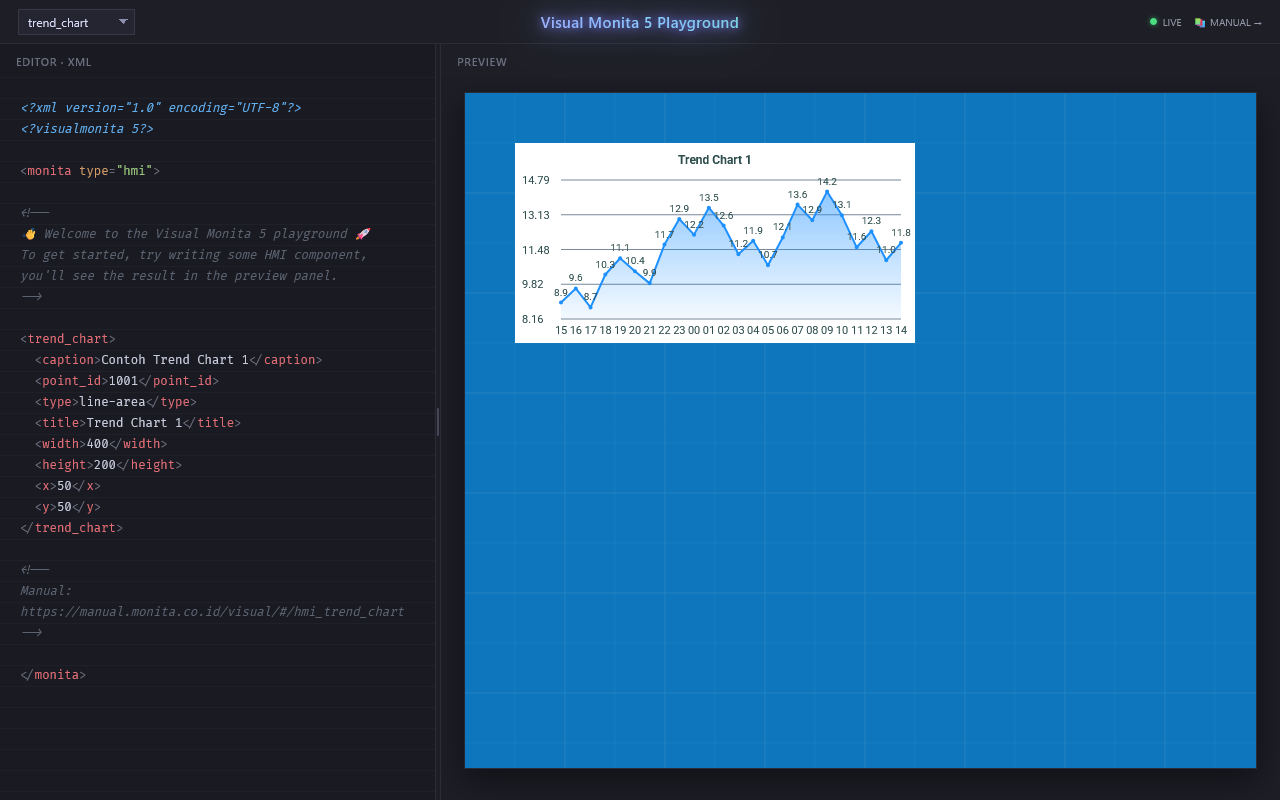
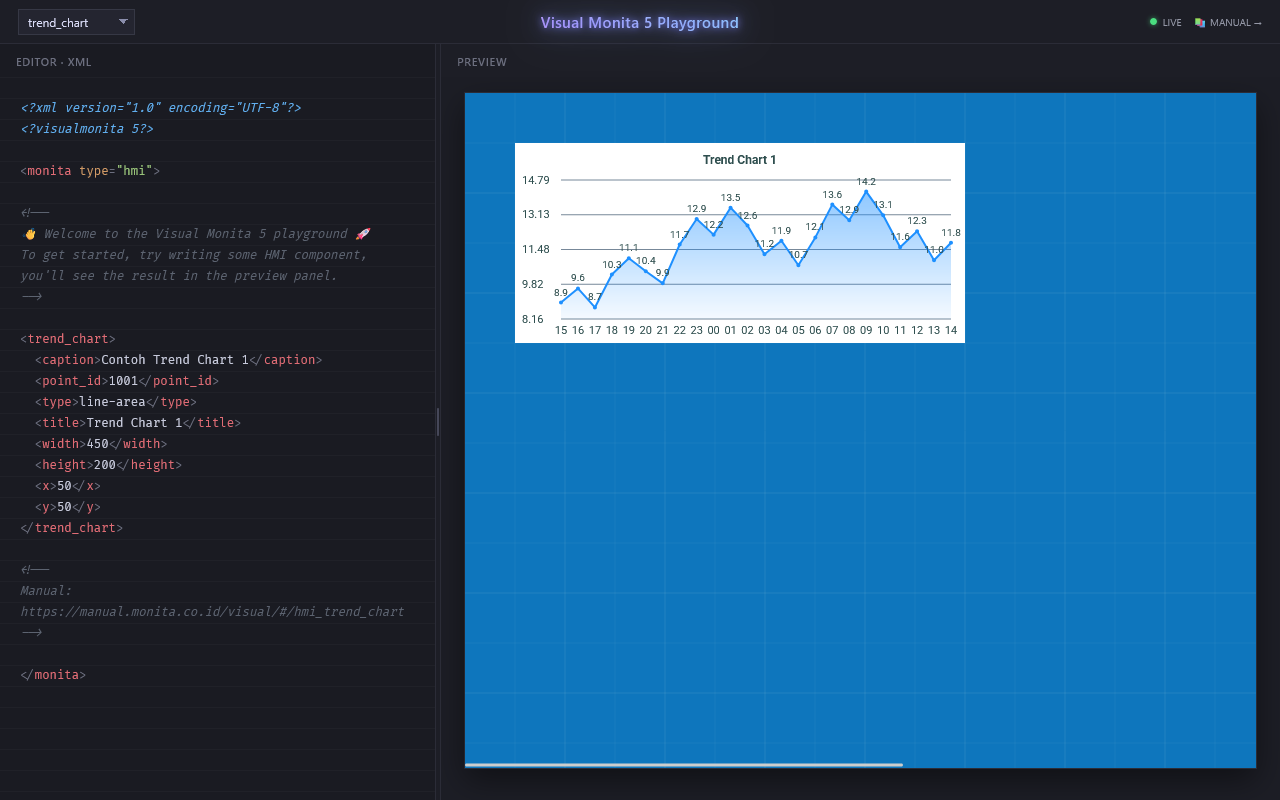
update sample data

Changed region(s): [[0.4375, 0.1562, 0.7812, 0.4375], [0.375, 0.9375, 0.6875, 0.9688], [0.5312, 0.1875, 0.5938, 0.2188]]

diff --git a/visual/common/_active_text.md b/visual/common/_active_text.md
@@ -22,7 +22,7 @@ Tag pembuka `<active_text>` tersebut memiliki atribut-atribut sebagai berikut:
 
 https://playground.monita.co.id/?component=active_text
 
-![active_text](https://hackmd.io/_uploads/r1XRhcYHfg.png)
+![active_text](https://manual.monita.co.id/_assets/images/active_text.png)
 
 #### Properti selengkapnya:
 

diff --git a/visual/hmi_trend_chart.md b/visual/hmi_trend_chart.md
@@ -8,7 +8,7 @@ Komponen ini tersedia pada versi `>=5.18.0`. Bertujuan untuk menampilkan data tr
   <point_id>1001</point_id>
   <type>line-area</type>
   <title>Trend Chart 1</title>
-  <width>400</width>
+  <width>450</width>
   <height>200</height>
   <x>50</x>
   <y>50</y>
